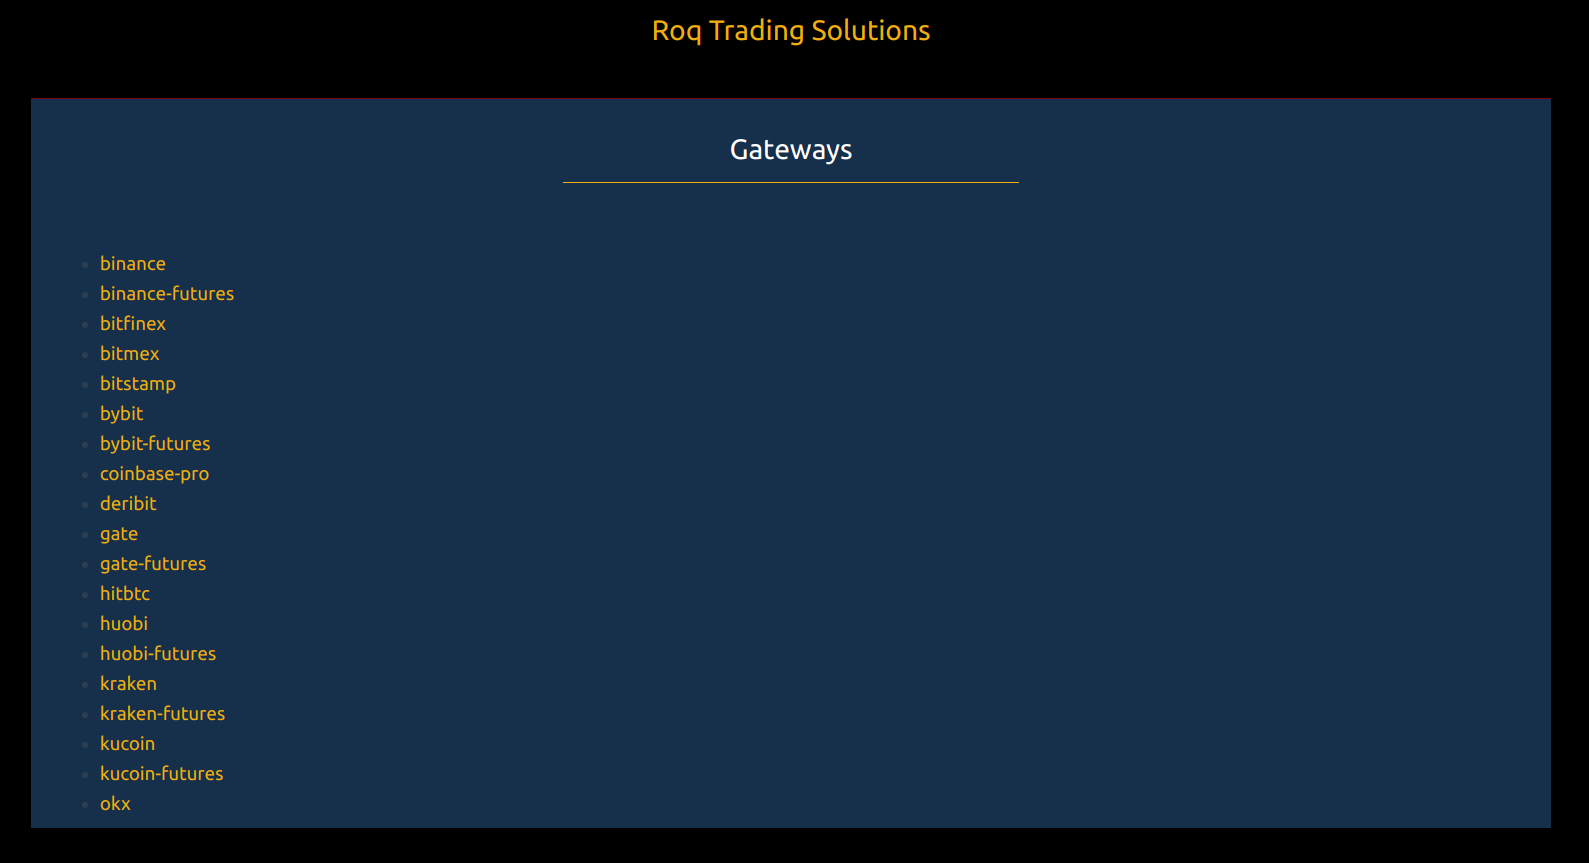
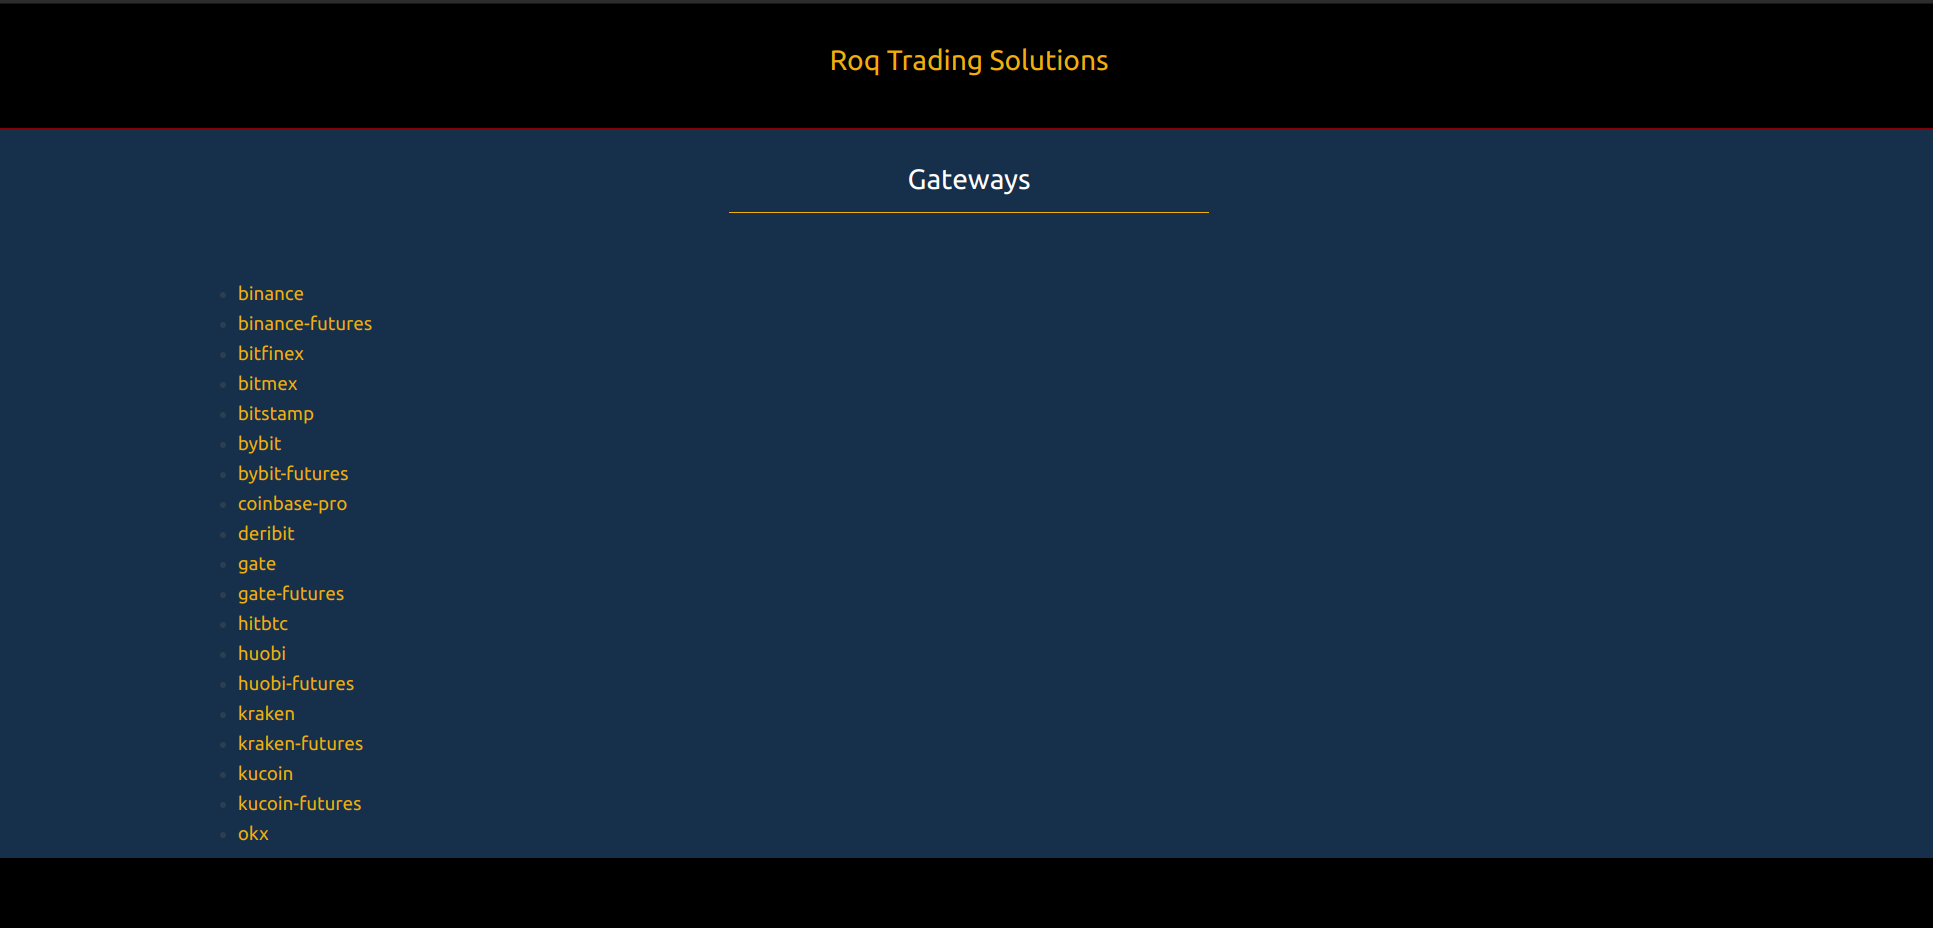
update

Changed region(s): [[0.0, 0.0, 1.0, 0.9641]]

diff --git a/src/components/Parameters.vue b/src/components/Parameters.vue
@@ -1,0 +1,122 @@
+<script setup>
+import axios from "axios";
+import "ag-grid-community/styles//ag-grid.css";
+import "ag-grid-community/styles//ag-theme-alpine.css";
+import { AgGridVue } from "ag-grid-vue3";
+defineProps({
+  gateway: {
+    type: String,
+    required: true,
+  },
+  user: {
+    type: String,
+    required: true,
+  },
+});
+</script>
+
+<script>
+export default {
+  components: {
+    AgGridVue,
+  },
+  data() {
+    return {
+      prefix: "http://192.168.188.70/roq/gateway",
+      parameters: null,
+      headers: [
+        { headerName: "label", field: "label", filter: "agTextColumnFilter" },
+        {
+          headerName: "account",
+          field: "account",
+          filter: "agTextColumnFilter",
+        },
+        {
+          headerName: "exchange",
+          field: "exchange",
+          filter: "agTextColumnFilter",
+        },
+        { headerName: "symbol", field: "symbol", filter: "agTextColumnFilter" },
+        { headerName: "value", field: "value", filter: false },
+      ],
+      defaultColDef: {
+        flex: 1,
+        minWidth: 200,
+        resizable: true,
+        floatingFilter: true,
+      },
+    };
+  },
+  methods: {
+    fetch_parameters() {
+      axios
+        .get(`${this.prefix}/${this.gateway}/parameters/${this.user}/foo`)
+        .then((response) => (this.parameters = response.data));
+    },
+  },
+  watch: {
+    user() {
+      this.fetch_parameters();
+    },
+  },
+  mounted: function () {
+    this.fetch_parameters();
+  },
+};
+</script>
+
+<template>
+  <div class="container">
+    <h3>Parameters</h3>
+    <p>
+      {{ user }}
+    </p>
+    <div v-if="parameters">
+      <table>
+        <tr>
+          <th>label</th>
+          <th>account</th>
+          <th>exchange</th>
+          <th>symbol</th>
+          <th>value</th>
+        </tr>
+        <tr v-for="item in parameters" :key="item">
+          <td>{{ item.label }}</td>
+          <td>{{ item.account }}</td>
+          <td>{{ item.exchange }}</td>
+          <td>{{ item.symbol }}</td>
+          <td>{{ item.value }}</td>
+        </tr>
+      </table>
+    </div>
+  </div>
+  <div class="test">
+    <ag-grid-vue
+      style="width: 100%; height: 200px"
+      class="ag-theme-alpine-dark"
+      :columnDefs="headers"
+      :defaultColDef="defaultColDef"
+      :rowData="parameters"
+    >
+    </ag-grid-vue>
+  </div>
+</template>
+
+<style scoped>
+.container {
+  margin: 0 0.5em 0.5em 0.5em;
+  padding: 0.5em;
+  background-color: black;
+}
+td {
+  padding: 0 0.5em 0 0.5em;
+}
+td:nth-child(1) {
+  color: #f0af0d;
+}
+td:nth-child(2) {
+  text-align: right;
+}
+.test {
+}
+</style>

diff --git a/src/views/MarketView.vue b/src/views/MarketView.vue
@@ -4,6 +4,7 @@ import ReferenceData from "../components/ReferenceData.vue";
 import MarketStatus from "../components/MarketStatus.vue";
 import TopOfBook from "../components/TopOfBook.vue";
 import Statistics from "../components/Statistics.vue";
+import Parameters from "../components/Parameters.vue";
 import _ from "lodash";
 defineProps({
   gateway: {
@@ -23,6 +24,8 @@ export default {
       exchange: null,
       symbols: null,
       symbol: null,
+      users: null,
+      user: "trader",
     };
   },
   methods: {
@@ -56,10 +59,6 @@ export default {
 </script>
 
 <template>
-  <div class="container">
-    <h2 v-if="symbol">{{ gateway }} / {{ exchange }} / {{ symbol }}</h2>
-    <h2 v-else>{{ gateway }}</h2>
-  </div>
   <div class="title">
     <h2>Context</h2>
     <hr />
@@ -82,6 +81,10 @@ export default {
         </select>
       </div>
     </div>
+  </div>
+  <div class="container">
+    <p v-if="symbol">{{ gateway }} / {{ exchange }} / {{ symbol }}</p>
+    <p v-else>{{ gateway }}</p>
   </div>
   <div class="title" v-if="symbol">
     <h2>Market</h2>
@@ -121,6 +124,15 @@ export default {
       />
     </div>
   </div>
+  <div class="title">
+    <h2>User</h2>
+    <hr />
+  </div>
+  <div class="user">
+    <div class="object">
+      <Parameters :gateway="gateway" :user="user" v-if="user" />
+    </div>
+  </div>
 </template>
 
 <style scoped>
@@ -150,6 +162,10 @@ hr {
 .market {
   display: grid;
   grid-template-columns: 50% 50%;
+}
+.user {
+  display: grid;
+  grid-template-columns: 100%;
 }
 .object {
 }

diff --git a/src/App.vue b/src/App.vue
@@ -12,7 +12,9 @@ import { RouterLink, RouterView } from "vue-router";
   </section>
 
   <section class="main-area">
-    <RouterView />
+    <div class="content">
+      <RouterView />
+    </div>
   </section>
 </template>
 
@@ -32,5 +34,9 @@ import { RouterLink, RouterView } from "vue-router";
   display: block;
   padding-top: 1.5em;
   background-color: #16304b;
+}
+.content {
+  max-width: 1280px;
+  margin: 0 auto;
 }
 </style>

diff --git a/src/assets/main.css b/src/assets/main.css
@@ -24,10 +24,6 @@ a:hover {
 
 
 #app {
-  max-width: 1280px;
-  margin: 0 auto;
-  padding: 2rem;
-
+  margin: 0;
   font-weight: normal;
 }
-
